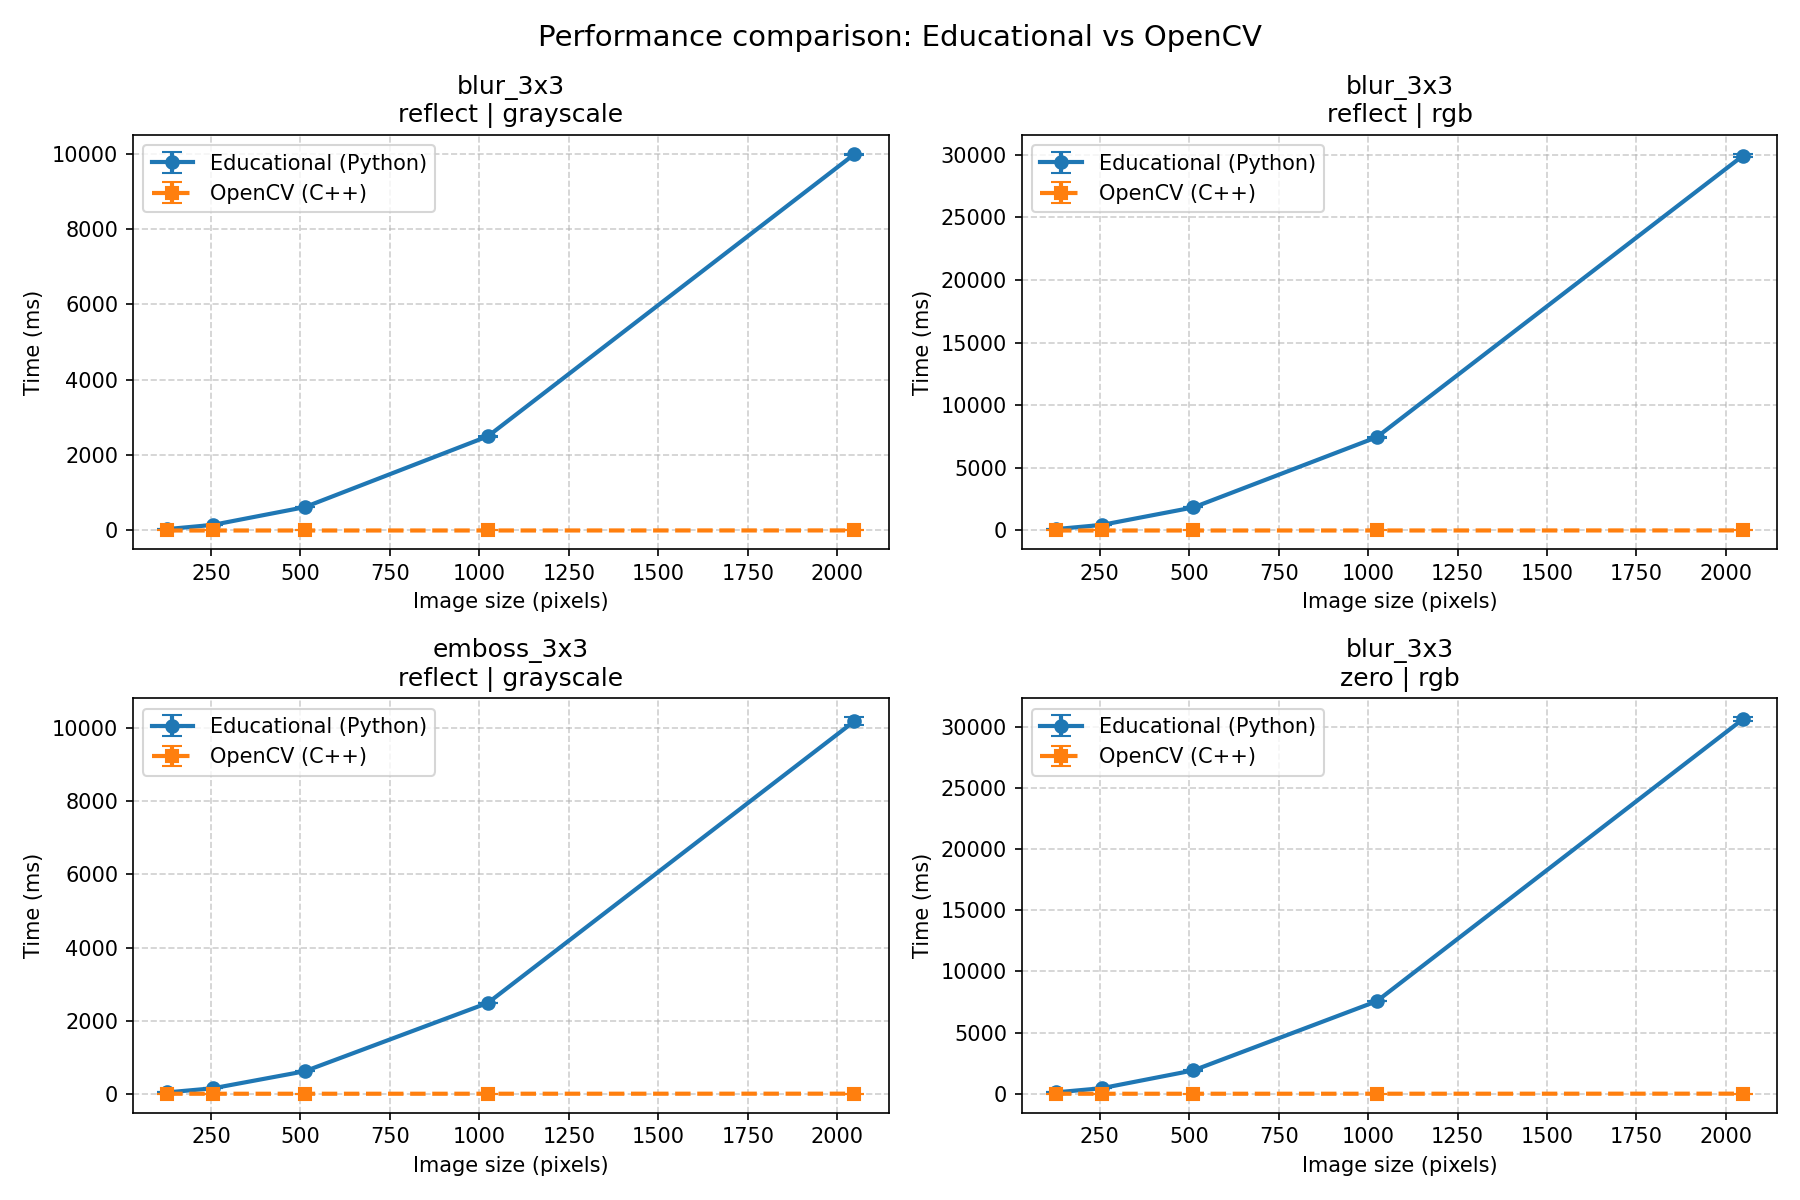
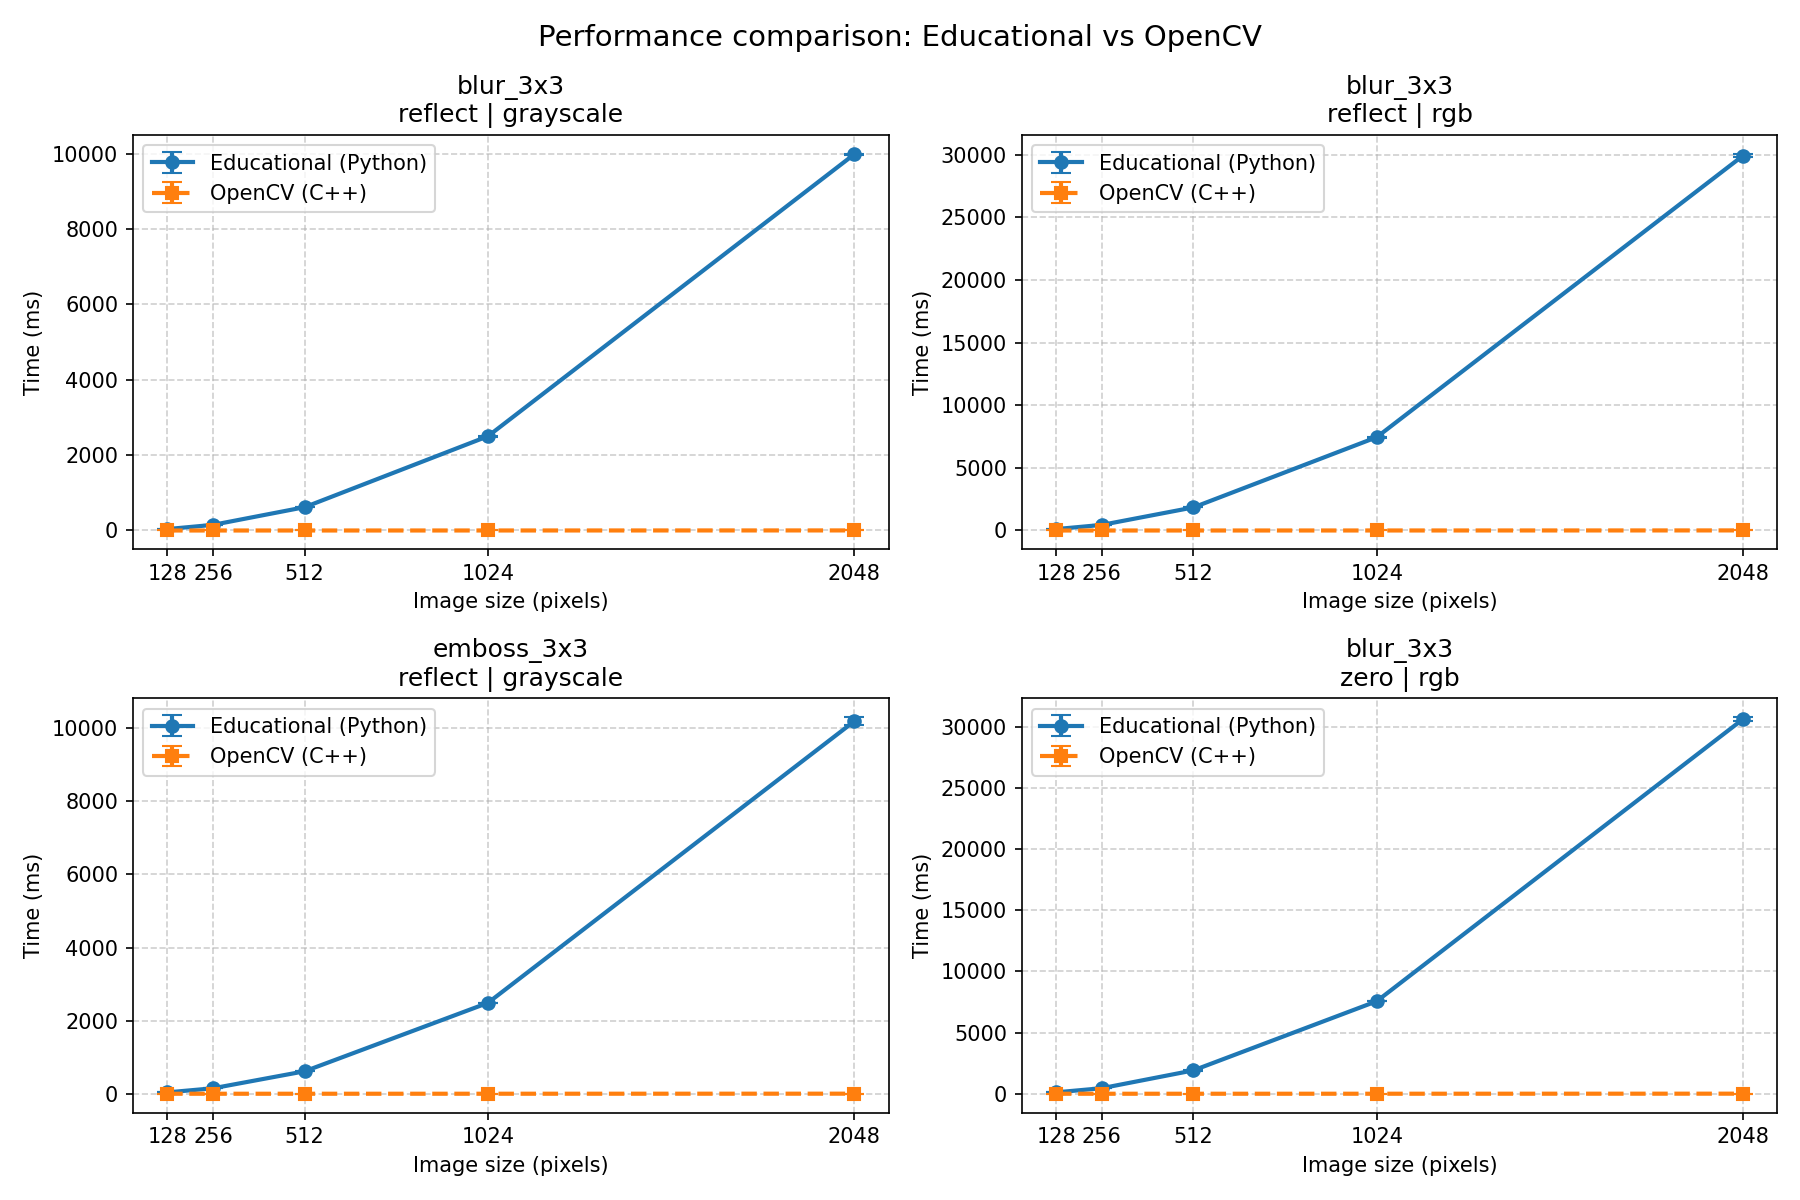
добавил размеры в графике

diff --git a/benchmark/visualization.py b/benchmark/visualization.py
@@ -4,11 +4,8 @@ import matplotlib.pyplot as plt
 from pathlib import Path
 from collections import defaultdict
 
-"python -m benchmark.visualization"
-
 
 def load_results():
-    """Загружает JSON с результатами."""
     results_path = Path("benchmark_results/benchmark_results.json")
     if not results_path.exists():
         raise FileNotFoundError("Результаты не найдены. Сначала запустите run_benchmark.py")
@@ -17,9 +14,10 @@ def load_results():
 
 
 def plot_results(results):
-    """Строит графики сравнения производительности."""
     out_dir = Path("benchmark_results")
     out_dir.mkdir(exist_ok=True)
+    all_sizes = sorted(set(r["size"] for r in results))
+    size_labels = [str(s) for s in all_sizes]
 
     grouped = defaultdict(
         lambda: {"sizes": [], "my_mean": [], "my_std": [], "cv_mean": [], "cv_std": []}
@@ -31,7 +29,6 @@ def plot_results(results):
         grouped[key]["my_std"].append(r["my_std_ms"])
         grouped[key]["cv_mean"].append(r["cv_mean_ms"])
         grouped[key]["cv_std"].append(r["cv_std_ms"])
-
     for key in grouped:
         indices = np.argsort(grouped[key]["sizes"])
         for field in ["sizes", "my_mean", "my_std", "cv_mean", "cv_std"]:
@@ -69,6 +66,8 @@ def plot_results(results):
             linestyle="--",
             linewidth=2,
         )
+        ax.set_xticks(all_sizes)
+        ax.set_xticklabels(size_labels)
         ax.set_xlabel("Image size (pixels)")
         ax.set_ylabel("Time (ms)")
         ax.set_title(f"{kernel}\n{edge} | {img_type}")
@@ -82,11 +81,10 @@ def plot_results(results):
     plt.tight_layout()
     plt.savefig(out_dir / "benchmark_result.png", dpi=150)
     plt.show()
-    print(f"Графики сохранены в {out_dir / 'benchmark_result.png'}")
+    print(f"График сохранён в {out_dir / 'benchmark_result.png'}")
 
 
 def print_summary_table(results):
-    """Выводит таблицу ускорений для ключевых размеров."""
     speeds = {}
     for r in results:
         key = (r["kernel"], r["edge_mode"], r["image_type"], r["size"])
@@ -96,7 +94,6 @@ def print_summary_table(results):
     sizes = sorted(set(r["size"] for r in results))
     combos = sorted(set((r["kernel"], r["edge_mode"], r["image_type"]) for r in results))
 
-    # Заголовок
     header = ["Combination"] + [f"{s}x{s}" for s in sizes]
     print(f"{header[0]:<40}", " ".join(f"{h:>10}" for h in header[1:]))
     print("-" * 90)

diff --git a/benchmark/benchmark_results/Benchmark.md b/benchmark/benchmark_results/Benchmark.md
@@ -34,6 +34,9 @@
 *Полные данные (включая стандартные отклонения для всех комбинаций) доступны в файле `benchmark_results/benchmark_results.json`.*
 
 
+![График производительности](benchmark_results/benchmark_result.png)
+
+
 ## Выводы
 
 ### 1. Абсолютное сравнение производительности
